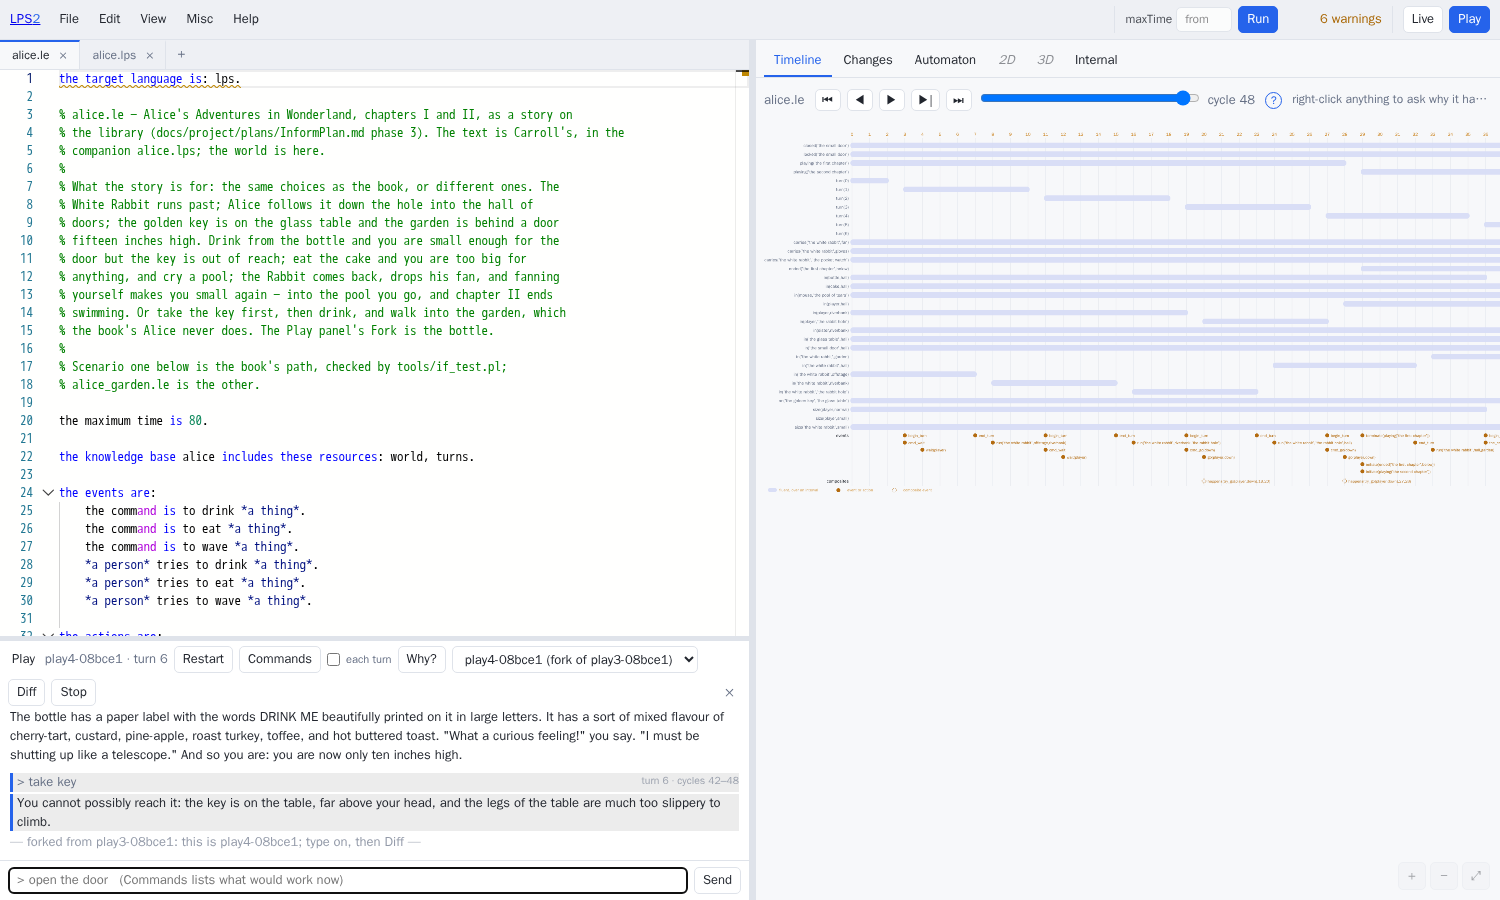
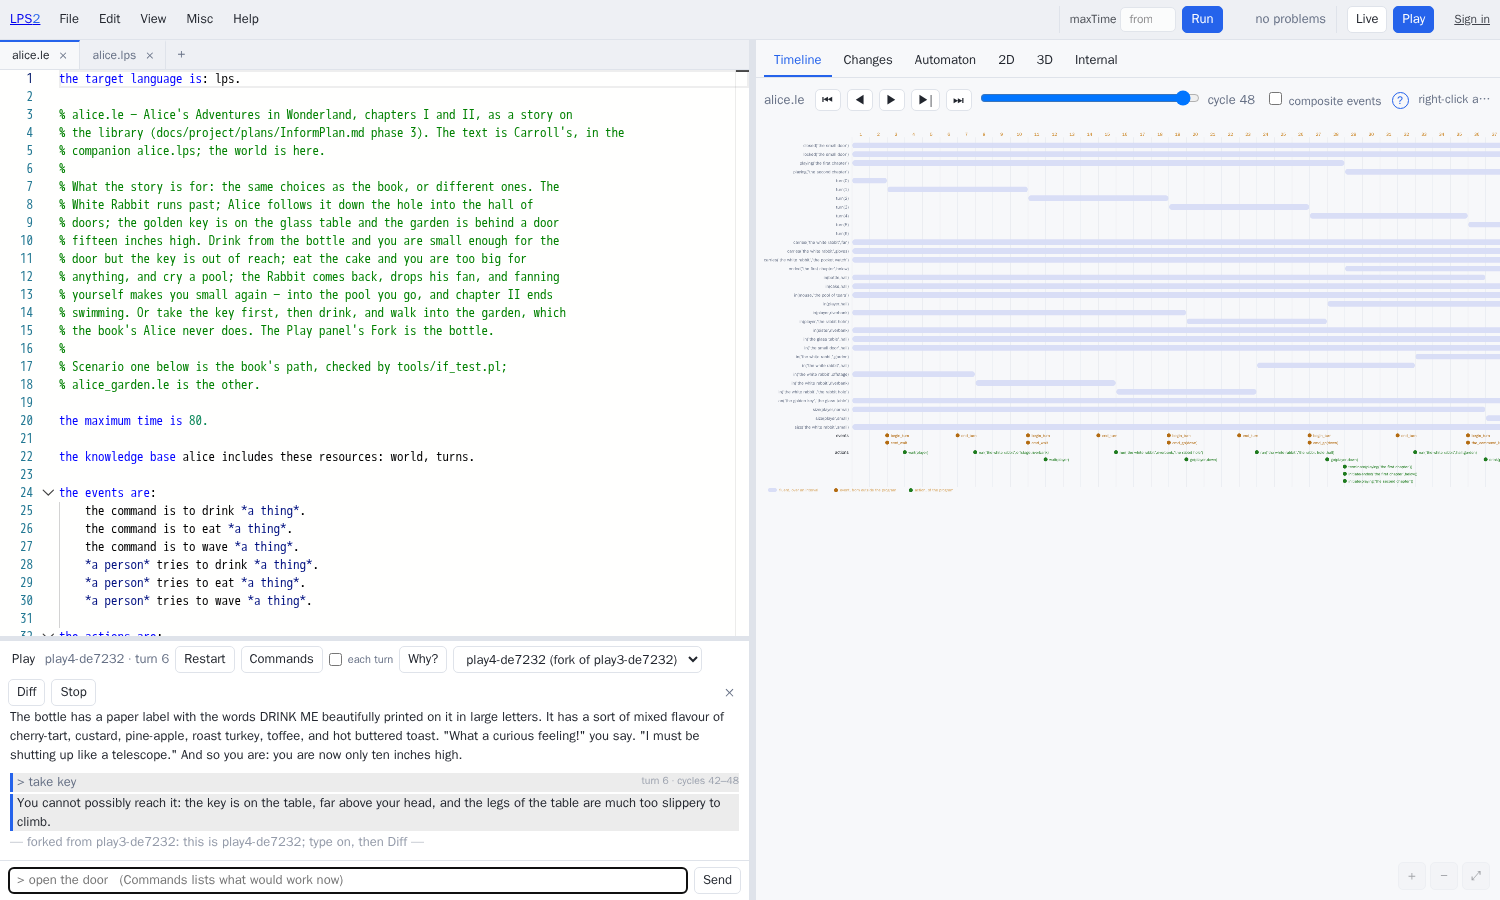
tweak aspect of timeline actions/events

diff --git a/ui/src/panes/basic.js b/ui/src/panes/basic.js
@@ -29,9 +29,12 @@ export const el = (tag, attrs = {}, ...kids) => {
 export const empty = (pane, msg) => pane.replaceChildren(el('p', { class: 'empty', text: msg }));
 
 /* ---- timeline (§I.10.2) --------------------------------------------------
-   One lane per fluent, showing the intervals it holds over; one lane for
-   events and one for composite events. The `.lpst` structure is already this
-   shape, so nothing is instrumented for the picture's sake.                */
+   One lane per fluent, showing the intervals it holds over; one lane for the
+   events that came from outside the program, one for the program's own
+   actions, and one for composite events. The `.lpst` structure is already
+   this shape, so nothing is instrumented for the picture's sake: the trace
+   records an event and an action in the same stage, and the server says
+   which of them are actions (`actions`, a part of `events`).               */
 /*  Whether a run has composite events at all: the box that shows them is
  *  offered only then. */
 export const hasComposites = (data) => (data.composites || []).some((c) => (c.items || []).length);
@@ -102,19 +105,36 @@ export function renderTimeline(pane, data, cursor, onSeek, { composites = false 
   const refusedCells = (data.refused || []).map((r) => ({ cycle: r.cycle, items: r.items.map((i) => '✗ ' + i) }));
   const refusedWhy = new Map();
   for (const r of data.refused || []) for (const i of r.items) refusedWhy.set(`${r.cycle}|✗ ${i}`, r.conditions);
-  const ev = packStrip([...(data.events || []), ...refusedCells]), cp = packStrip(showCp ? data.composites : []);
+  /*  Events and actions apart, as in LPS1's timeline, which had an Events
+   *  group and an Actions group: an event comes from outside the program (an
+   *  observation of its scenario, something sent to a live session), an
+   *  action is something the program chose to do. The first version drew
+   *  both as the same amber dot in one lane, and a reader could not tell
+   *  what the program was told from what the program did.                   */
+  const ownAction = new Set();
+  for (const c of data.actions || []) for (const i of c.items || []) ownAction.add(`${c.cycle}|${i}`);
+  const outside = (data.events || [])
+    .map((c) => ({ cycle: c.cycle, items: (c.items || []).filter((i) => !ownAction.has(`${c.cycle}|${i}`)) }));
+  const ev = packStrip([...outside, ...refusedCells]), ac = packStrip(data.actions);
+  const cp = packStrip(showCp ? data.composites : []);
   //  A lane with nothing in it is a labelled empty row and a claim that the
   //  program has composite events. Most do not; the row was always drawn.
   const hasComposites = cp.placed.length > 0;
+  //  The same for the other two: a goat that crosses a river is all actions,
+  //  and an empty "events" row above them says something came from outside.
+  //  A run with neither keeps the events row, so that the chart has one.
+  const hasActions = ac.placed.length > 0;
+  const hasEvents = ev.placed.length > 0 || !hasActions;
 
   //  A fluent declared with a default (`; 0 by default`) holds it for every
   //  key that has no lane above: one dashed line per such fluent says so,
   //  over the whole run, instead of a lane for each of infinitely many keys.
   const defaults = data.defaults || [];
   const evY = 26 + (lanes.length + defaults.length) * RH;
-  const cpY = evY + ev.rows * ROW + 6;
-  const H = (hasComposites ? cpY + cp.rows * ROW : evY + ev.rows * ROW) + 24;
-  const W = Math.max(x(max + 1) + 20, ev.right + 20, cp.right + 20);
+  const acY = hasEvents ? evY + ev.rows * ROW + 6 : evY;
+  const cpY = hasActions ? acY + ac.rows * ROW + 6 : acY;
+  const H = (hasComposites ? cpY + cp.rows * ROW : cpY - 6) + 24;
+  const W = Math.max(x(max + 1) + 20, ev.right + 20, ac.right + 20, cp.right + 20);
   const root = svg('svg', { width: W, height: H, viewBox: `0 0 ${W} ${H}`, class: 'timeline' });
 
   /*  The selected cycle, shaded. Not at the last cycle, where every run
@@ -166,7 +186,7 @@ export function renderTimeline(pane, data, cursor, onSeek, { composites = false 
     root.appendChild(r);
   });
 
-  const strip = (packed, y, cls, name) => {
+  const strip = (packed, y, cls, name, what) => {
     const label = svg('text', { x: LW - 8, y: y + 13, 'text-anchor': 'end', class: 'lane strong' });
     label.textContent = name; root.appendChild(label);
     for (const { cycle, item, row } of packed.placed) {
@@ -183,32 +203,38 @@ export function renderTimeline(pane, data, cursor, onSeek, { composites = false 
           `${term} — made at cycle ${cycle} and refused: an integrity constraint held (${refused})   (right-click: why not?)`;
         askable(g, { term, kind: 'refused', cycle });
       } else {
-        g.appendChild(svg('title')).textContent = `${item} — cycle ${cycle}   (right-click: why?)`;
-        askable(g, { term: item, kind: cls === 'cp' ? 'event' : 'event', cycle });
+        g.appendChild(svg('title')).textContent = `${item} — ${what}, cycle ${cycle}   (right-click: why?)`;
+        askable(g, { term: item, kind: 'event', cycle });
       }
       root.appendChild(g);
     }
   };
-  strip(ev, evY, 'ev', 'events');
-  if (hasComposites) strip(cp, cpY, 'cp', 'composites');
+  if (hasEvents) strip(ev, evY, 'ev', 'events', 'an event from outside the program');
+  if (hasActions) strip(ac, acY, 'ac', 'actions', 'an action of the program');
+  if (hasComposites) strip(cp, cpY, 'cp', 'composites', 'a composite event');
 
   /*  A legend, because the shapes and the colours are a language of their own:
    *  a bar is a fluent holding over an interval, a dot is something that
-   *  happened at an instant, and a dashed dot is a composite event. The colours
-   *  are LPS1's (legacy_lps1/swish/web/lps/lps.css). */
+   *  happened at an instant — amber for an event, green for an action — and
+   *  a dashed dot is a composite event. The colours are LPS1's: the amber of
+   *  legacy_lps1/swish/web/lps/lps.css, and the green its timeline gave an
+   *  action (legacy_lps1/utils/visualizer.P). Each entry is there only when
+   *  the chart has such a mark, and each starts where the one before ends. */
   const key = svg('g', { class: 'tl-legend' });
-  const keyItem = (dx, cls, shape, text) => {
-    if (shape === 'bar') key.appendChild(svg('rect', { x: dx, y: H - 15, width: 22, height: 9, rx: 4, class: cls }));
-    else key.appendChild(svg('circle', { cx: dx + 6, cy: H - 10, r: 5, class: cls }));
-    const t = svg('text', { x: dx + 28, y: H - 7, class: 'axis' });
+  let keyX = LW - 210;
+  const keyItem = (cls, shape, text) => {
+    if (shape === 'bar') key.appendChild(svg('rect', { x: keyX, y: H - 15, width: 22, height: 9, rx: 4, class: cls }));
+    else key.appendChild(svg('circle', { cx: keyX + 6, cy: H - 10, r: 5, class: cls }));
+    const t = svg('text', { x: keyX + (shape === 'bar' ? 28 : 16), y: H - 7, class: 'axis' });
     t.textContent = text; key.appendChild(t);
+    keyX += (shape === 'bar' ? 28 : 16) + text.length * 5 + 16;
   };
-  keyItem(LW - 210, 'hold lps-fluent-bar', 'bar', 'fluent, over an interval');
-  keyItem(LW - 40, 'ev-key', 'dot', 'event or action');
-  if (refusedCells.length) keyItem(LW + 100, 'refused-key', 'dot', 'refused by a constraint');
-  if (defaults.length) keyItem(LW + (refusedCells.length ? 280 : 100) + (hasComposites ? 180 : 0),
-                               'hold lps-default-bar', 'bar', 'a default (no fact stored)');
-  if (hasComposites) keyItem(LW + (refusedCells.length ? 280 : 100), 'cp-key', 'dot', 'composite event');
+  if (lanes.length) keyItem('hold lps-fluent-bar', 'bar', 'fluent, over an interval');
+  if (ev.placed.length > refusedCells.reduce((n, c) => n + c.items.length, 0)) keyItem('ev-key', 'dot', 'event, from outside the program');
+  if (hasActions) keyItem('ac-key', 'dot', 'action, of the program');
+  if (refusedCells.length) keyItem('refused-key', 'dot', 'refused by a constraint');
+  if (hasComposites) keyItem('cp-key', 'dot', 'composite event');
+  if (defaults.length) keyItem('hold lps-default-bar', 'bar', 'a default (no fact stored)');
   root.appendChild(key);
 
   root.addEventListener('click', (e) => {

diff --git a/ui/static/style.css b/ui/static/style.css
@@ -341,10 +341,12 @@ body:has(#pane-timeline.on) .tl-opts.has-cp { display: flex; }
 .timeline .axis, .timeline .lane { fill: var(--muted); font-size: 11px; }
 .timeline .lane.strong { fill: var(--fg); font-weight: 600; }
 /*  LPS1's palette here too, so a fluent is the same colour in the picture as it
-    is in the text: pale blue for a fluent's interval, amber for something that
-    happened, dashed amber for a composite event
+    is in the text: pale blue for a fluent's interval, amber for an event from
+    outside the program, dashed amber for a composite event
     (`legacy_lps1/swish/web/lps/lps.css` — `.vis-item.compositeEvent` is where
-    the dashes come from). */
+    the dashes come from), and green for an action of the program, which is
+    what LPS1's timeline gave its Actions group
+    (`legacy_lps1/utils/visualizer.P`, `color:green`). */
 .timeline .hold { fill: var(--lps-fluent-bg); opacity: .95; }
 .timeline .lps-default-bar { fill: none; stroke: var(--lps-fluent-bg); stroke-width: 2; stroke-dasharray: 5 4; opacity: .9; }
 .timeline text.lane.default { font-style: italic; }
@@ -353,6 +355,7 @@ body:has(#pane-timeline.on) .tl-opts.has-cp { display: flex; }
 .timeline .ev.refused .tick { fill: #e5534b; text-decoration: line-through; }
 .timeline .cp circle { fill: none; stroke: var(--lps-event-fg); stroke-width: 1.5; stroke-dasharray: 2 2; }
 .timeline .ev .tick { fill: var(--lps-event-fg); }
+.timeline .ac circle, .timeline .ac .tick { fill: var(--lps-action-fg); }
 .timeline .cp .tick { fill: var(--lps-event-fg); opacity: .85; }
 .timeline .axis { fill: var(--lps-time-fg); }
 .timeline .tick { fill: var(--fg); font-size: 10px; }
@@ -495,12 +498,14 @@ pre.code {
   --lps-fluent-bg: #D7DCF5;
   --lps-fluent-fg: #1A1A1A;
   --lps-event-fg: #B36B10;
+  --lps-action-fg: #1E7B1E;
   --lps-time-fg: #C97F17;
 }
 body[data-theme="dark"] {
   --lps-fluent-bg: rgba(120, 140, 220, 0.30);
   --lps-fluent-fg: #cfd8ff;
   --lps-event-fg: #E19735;
+  --lps-action-fg: #5DBB63;
   --lps-time-fg: #FDA428;
 }
 
@@ -623,6 +628,7 @@ body[data-theme="dark"] {
 .mouse-legend { font-size: 10px; margin-left: 8px; white-space: nowrap; }
 .tl-legend .axis { font-size: 10px; opacity: .7; }
 .ev-key { fill: var(--lps-event-fg); }
+.ac-key { fill: var(--lps-action-fg); }
 .refused-key { fill: none; stroke: #e5534b; stroke-width: 2; }
 .cp-key { fill: none; stroke: var(--lps-event-fg); stroke-dasharray: 2 2; }
 

diff --git a/ui/src/main.js b/ui/src/main.js
@@ -1367,8 +1367,8 @@ function startHere(pane) {
         + 'Ctrl/Cmd + . runs one cycle more than last time.'),
       ...playStep,
       step('Read what happened.', null,
-        'Timeline shows which facts were true in which cycles and which events '
-        + 'occurred. Changes lists what each cycle started and stopped. 2D draws '
+        'Timeline shows which facts were true in which cycles, which events '
+        + 'came from outside and which actions the program did. Changes lists what each cycle started and stopped. 2D draws '
         + 'the state, for a program that says how it should be drawn. And a '
         + 'right-click on anything in those panes asks why it happened.'))));
 }

diff --git a/docs/user/guide/ide.md b/docs/user/guide/ide.md
@@ -341,7 +341,14 @@ editor again. The pane that you asked for comes back, at the same cycle.
 ### Timeline
 
 The timeline has one row for each fluent, with a bar for the time that the fluent
-is true. Below these rows are the events of each cycle. Then there can be a row for
+is true. Below these rows there are two rows of dots. The **events** row shows the
+events that came from outside the program: the observations of its scenario, and
+the events that you send to a live session. An event dot is amber. The **actions**
+row shows the actions that the program selected to do. An action dot is green.
+The two rows have the same meaning as the Events group and the Actions group of
+the LPS1 timeline. If the scenario observes something that the program declares as
+an action, the timeline shows it in the events row, because the program did not
+select it. A row shows only if the run has a dot for it. Then there can be a row for
 composite events. A composite event is an event that other events make. If the run
 has composite events, a **composite events** box is next to the slider.
 Select the box to show the row. The editor remembers your choice. Click the picture
@@ -355,9 +362,9 @@ is true at cycle 0 and false at cycle 1, or an event at cycle 0.
 
 Each cycle is a column between two vertical lines. The number of the cycle is at
 the top of its column. A fluent bar covers the columns of the cycles in which the
-fluent is true. An event is a dot on the vertical line between two cycles: the
-event happens from the cycle on the left to the cycle on the right, and it changes
-the state at that line. Thus, when an event makes one fluent false and another
+fluent is true. An event or an action is a dot on the vertical line between two
+cycles: the event happens from the cycle on the left to the cycle on the right, and
+it changes the state at that line. Thus, when an event makes one fluent false and another
 fluent true, the bar of the first fluent stops at the line and the bar of the second
 fluent starts at the same line. There is no gap between the two bars.
 

diff --git a/docs/user/api/mcp.md b/docs/user/api/mcp.md
@@ -223,7 +223,7 @@ it and names the same constraint.
 |---|---|---|
 | `state` | `world`, `at`, `match` | what is true now, or at a past cycle |
 | `observe` | `world`, `events`, `cycles` | **moves the world forward**; tells what changed, what the program did, and if a constraint refused the event |
-| `timeline` | `world` | the intervals of each fluent, the events and composites in each cycle, and all that the engine refused |
+| `timeline` | `world` | the intervals of each fluent, the events and composites in each cycle, and all that the engine refused. `events` has all that occurred. `actions` has the part of `events` that the program did itself. An event that is not in `actions` came from outside the program |
 | `changes` | `world`, `cycle` | what was initiated, terminated and updated, each with the event that caused it and the line of the law. This is the *cause_of* question |
 | `explain` | `world`, `question` \| `kind`+`what`+`at` | the five question forms, in English |
 | `find_first` | `world`, `holds` \| `happened` | the first cycle where something was true or happened |

diff --git a/docs/dev/ide-design.md b/docs/dev/ide-design.md
@@ -25,7 +25,7 @@ knowledge of the engine that it does not get over the network.
 | pane | plan | fed by |
 |---|---|---|
 | editor + diagnostics | §I.10.1 | `analyse` — debounced 1500 ms, then a server round trip |
-| timeline | §I.10.2 | `timeline` — one lane per fluent, with intervals |
+| timeline | §I.10.2 | `timeline` — one lane per fluent, with intervals; `events` is the trace's events stage, and `actions` the part of it that the program did itself (drawn as two lanes, as LPS1's Events and Actions groups) |
 | state changes | §I.10.3 | `changes` — what was initiated, terminated, persisted, and **which causal law fired** |
 | state transitions | LPS1's `godfa/1` | `automaton` — the run as a finite automaton |
 | animation | §I.10.4 | `scene` — the program's own `display/2` clauses, scrubbed by cycle; or, with *Scenes* in the pane's toolbar, `scenes` — one picture per keyframe, the whole run as a strip (AnimationPlan §7) |

diff --git a/docs/user/reference/glossary.md b/docs/user/reference/glossary.md
@@ -304,7 +304,9 @@ other game.
 its fluents and events. `display3d/2` is the same idea in three dimensions.
 
 **Timeline** — the diagram that shows which fluents were true in which cycles,
-and which events occurred. The diagram shows them as horizontal bars and dots.
+and which events and actions occurred. The diagram shows a fluent as a horizontal
+bar. The diagram shows an event as an amber dot and an action as a green dot, in
+two different rows.
 
 **State-transition diagram** — the diagram of the states that a program went
 through, and of the events that moved the program from one state to the next.

diff --git a/README.md b/README.md
@@ -69,8 +69,8 @@ the English sentence when the program is in Logical English.
 **An editor that shows the run.** The editor is a web page. Beside the program,
 it shows:
 
-- a **timeline** of which fact held when, and which events happened in each
-  cycle;
+- a **timeline** of which fact held when, and of what happened in each cycle:
+  the events from outside the program, and the program's own actions;
 - the **changes** made in any one cycle;
 - the run drawn as an **automaton**, a diagram of states and the steps between
   them;
